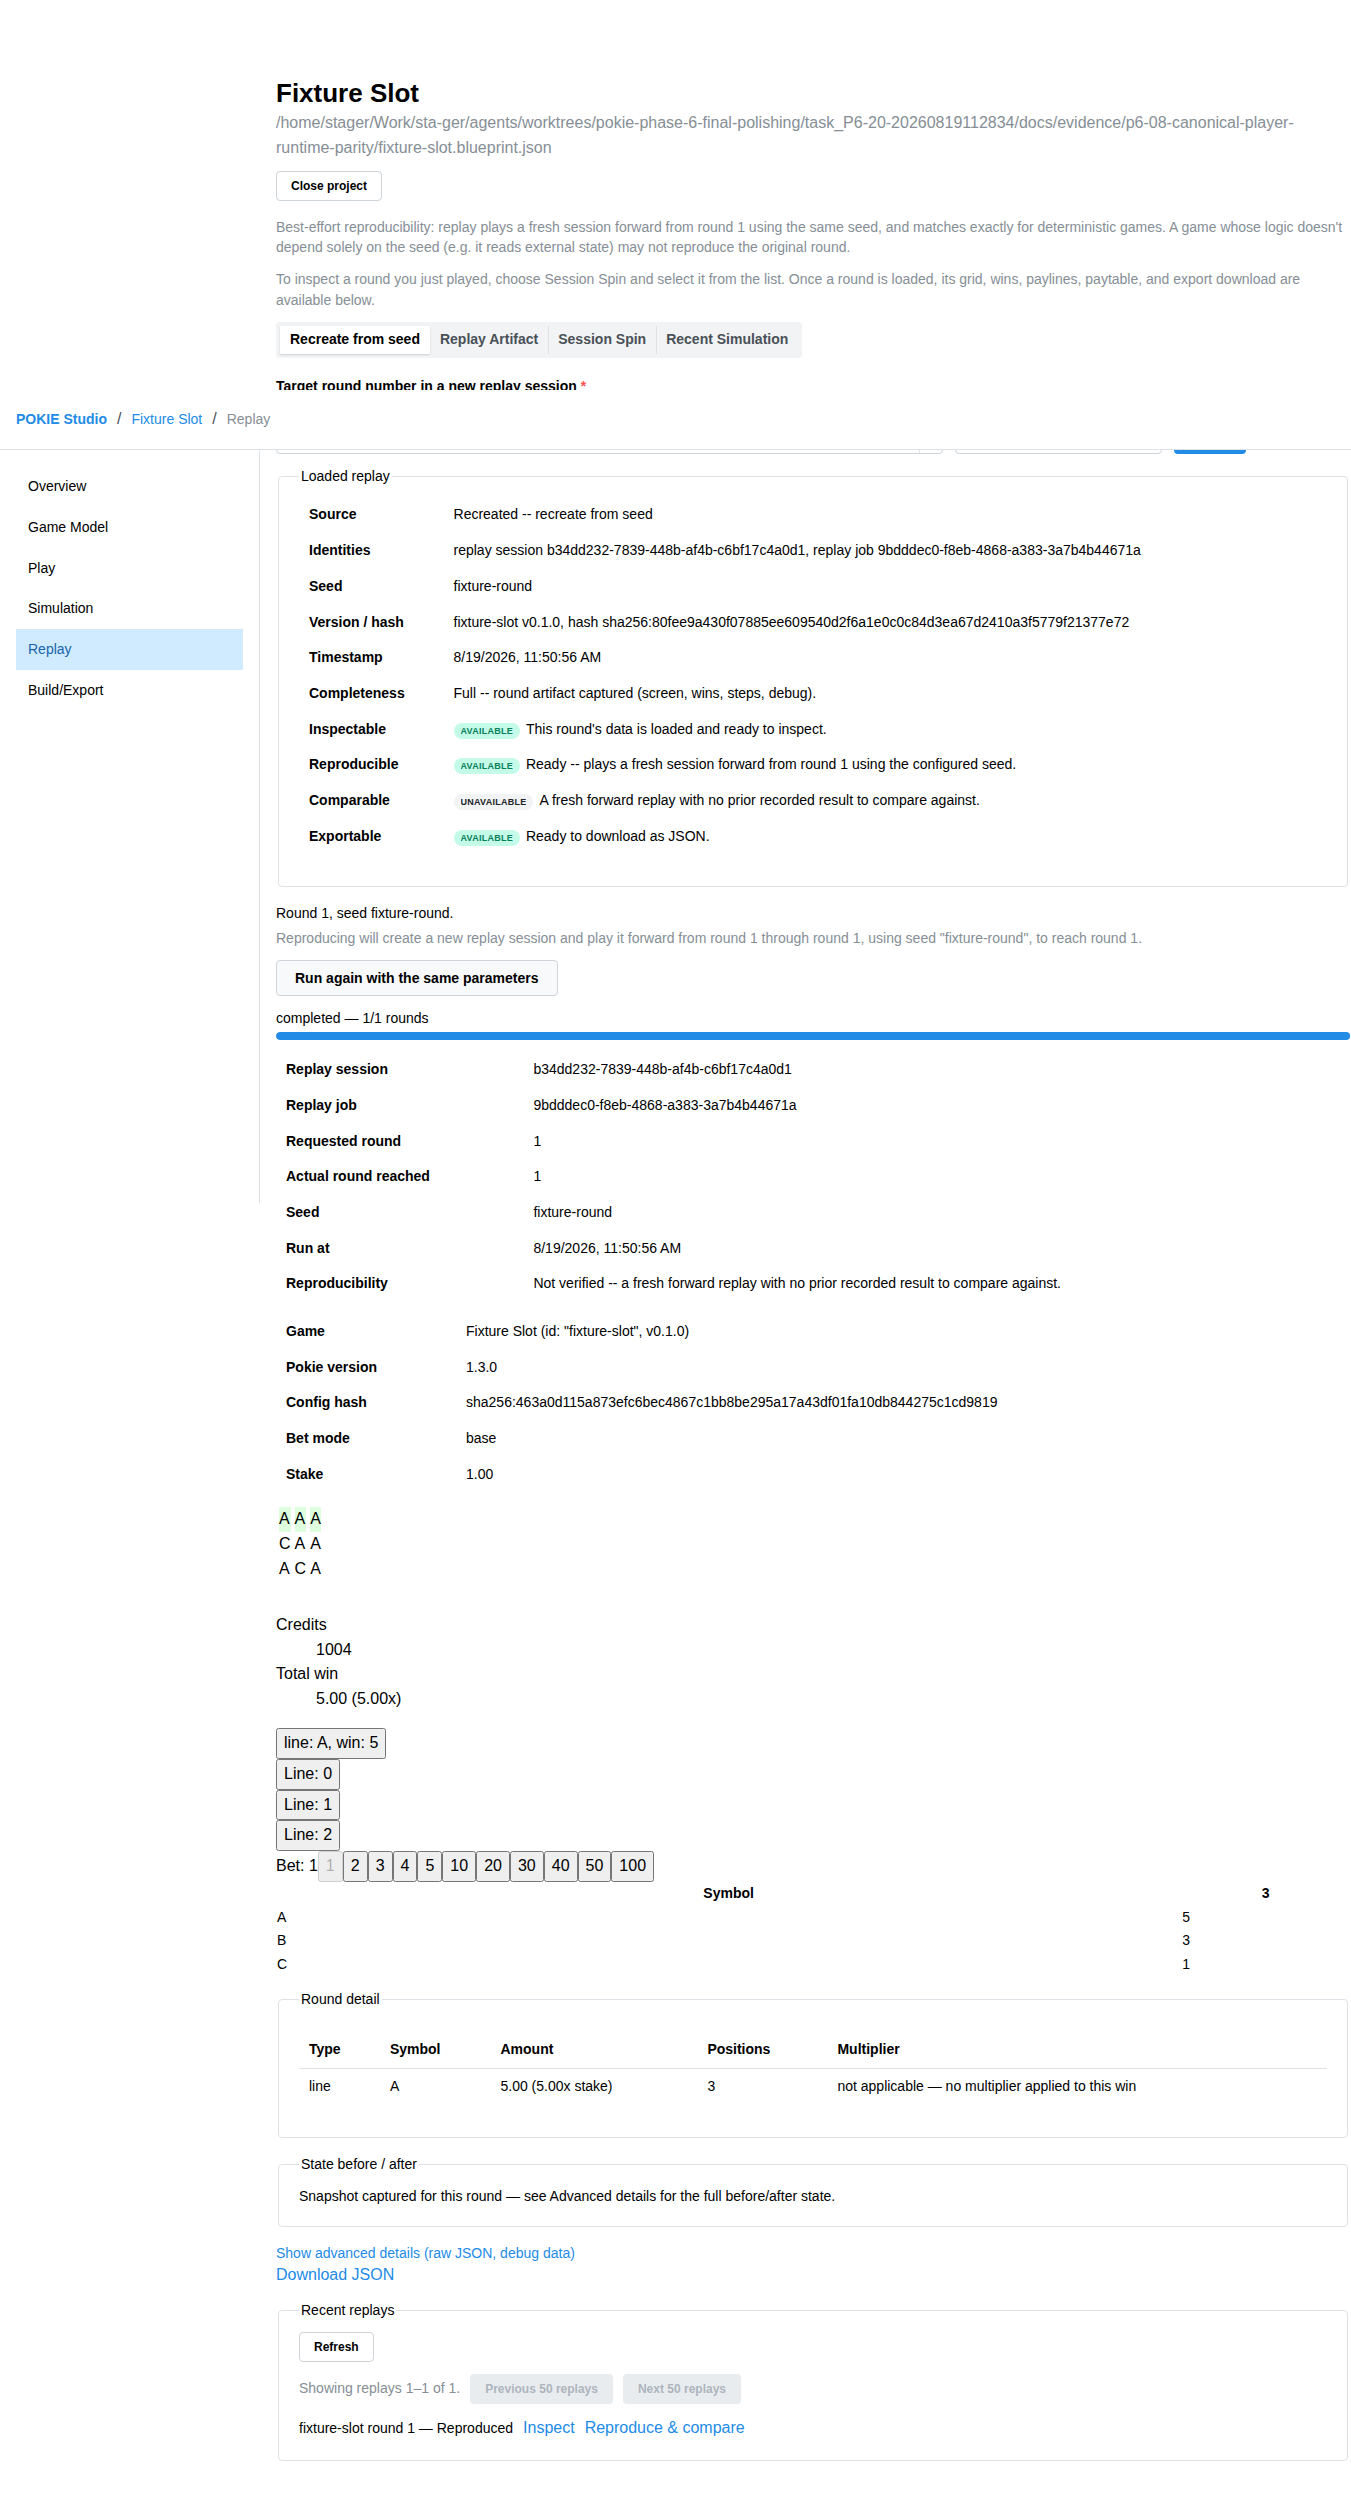
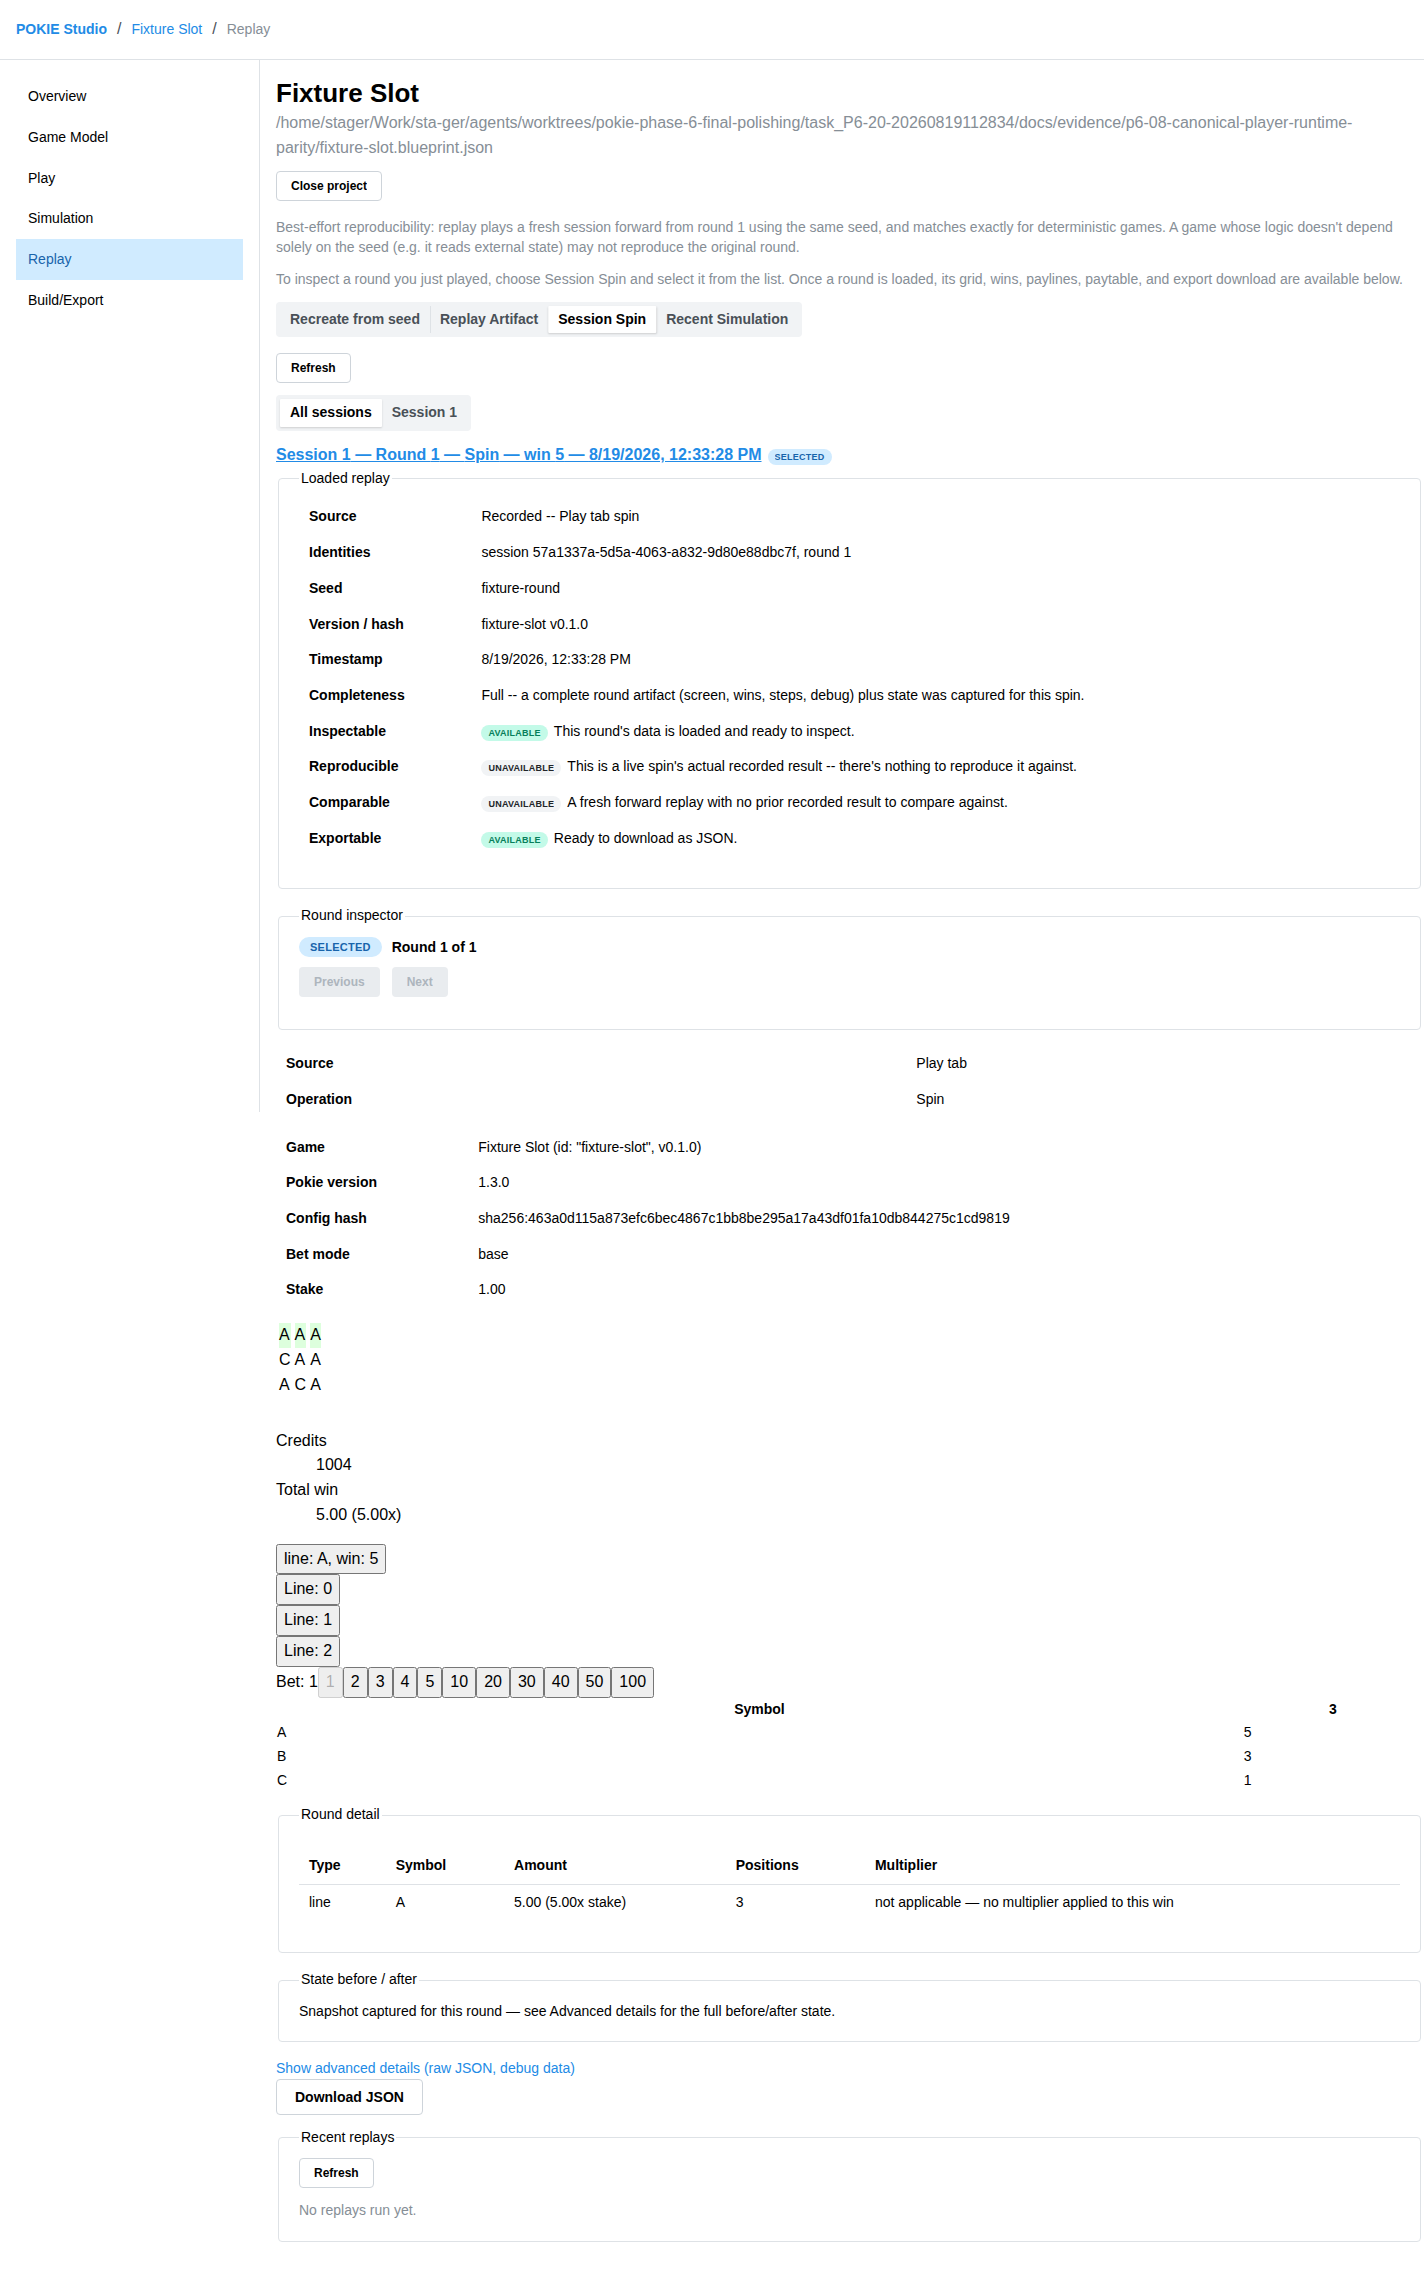
evidence: record P6-20 client parity finding

diff --git a/docs/phase6-final-polishing/p6-20-browser-ui-rerun/README.md b/docs/phase6-final-polishing/p6-20-browser-ui-rerun/README.md
@@ -1,15 +1,11 @@
-# P6-20 independent Studio Player parity rerun
+# P6-20 independent Player-presentation rerun
 
-Candidate `6d8d3eb5634091e40bc47e39c6b2255ca6ebf6a1` was built with Node 24.18.0 and exercised in one fresh, headed local Chrome/Studio session. Studio opened the tracked `fixture-slot` Blueprint; both visible surfaces used seed `fixture-round`, round 1.
[1 lines of base64/hex data omitted]
 
-The normal UI workflow was Play → New Play session → Spin, then Replay → Recreate from seed → Load → Run again. No application API, DOM, or state injection was used: interaction was coordinate mouse/keyboard against rendered controls, with rendered-text/grid checks.
+`npm start`, `pokie dev`, public `pokie-examples`, Studio Play, and Studio Replay Session Spin rendered the required Player result: `A/C/A | A/A/C | A/A/A`, highlighted `0:0/0:1/0:2`, line-A win `5`, credits `1004`, bet `1`, five-times payout, paytable `A=5/B=3/C=1`, and no feature counter. The retained [Studio Replay screenshot](studio-replay-fixture-round.png) is the one representative visible capture; its integrity hash is in `SHA256SUMS`.
 
-Both screenshots show the same canonical Player result:
+Observed P1: in the separate `pokie serve` + `pokie client` presentation, the visible `Session seed (optional)` field accepted `fixture-round`, then `Start new session` was clicked, but the immediately enabled visible Spin rendered a different unhighlighted `B/B/A | C/C/B | C/B/A` round. This fails required parity. [cli/client/main.ts](../../../cli/client/main.ts) leaves the old spin button active while its asynchronous new-session `boot()` is running, so Spin can use the old unseeded `current.sessionId`; this is the direct root cause of the observed race. See [verification-transcript.txt](verification-transcript.txt).
 
-- reel columns `A/C/A | A/A/C | A/A/A` (visible rows `A A A / C A A / A C A`), with top-row winning cells `0:0`, `0:1`, `0:2`;
-- line `A` win `5`, total `5.00` (`5.00x`), credits `1004`, and paytable `A=5`, `B=3`, `C=1`;
-- bet `1`; the fixture correctly has no selectable bet-mode row and no feature counter.
+Canonical source-path confirmation: [cli/client/main.ts](../../../cli/client/main.ts) imports and calls the public `./player/index.js` `renderPlayerRound`; [CanonicalPlayerView.tsx](../../../cli/studio-client/src/components/common/CanonicalPlayerView.tsx) imports and calls the same public `client/player` entry point; [GameScreenView.tsx](../../../cli/studio-client/src/components/common/GameScreenView.tsx) is the shared Studio Play/Replay path. The public companion's normal `src/ui/ui.ts` imports `pokie/client/player` and calls `renderPlayerRound`.
 
-Source confirmation: [CanonicalPlayerView.tsx](../../../cli/studio-client/src/components/common/CanonicalPlayerView.tsx) imports `renderPlayerRound` and `deriveWinHighlightsFromRoundArtifactWins` from the public `cli/client/player` barrel. [GameScreenView.tsx](../../../cli/studio-client/src/components/common/GameScreenView.tsx) is the shared Play/Replay path into that component; [RoundSummary.tsx](../../../cli/studio-client/src/components/common/RoundSummary.tsx) and [RoundArtifactInspector.tsx](../../../cli/studio-client/src/components/common/RoundArtifactInspector.tsx) supply Play and Replay respectively.
-
-See `browser-transcript.txt` and `SHA256SUMS` for the bounded browser record and screenshot integrity hashes.
+Only this README, the concise transcript, one screenshot, and its checksum are committed. Temporary package trees, browser profiles, full logs, and audit scripts were discarded.
